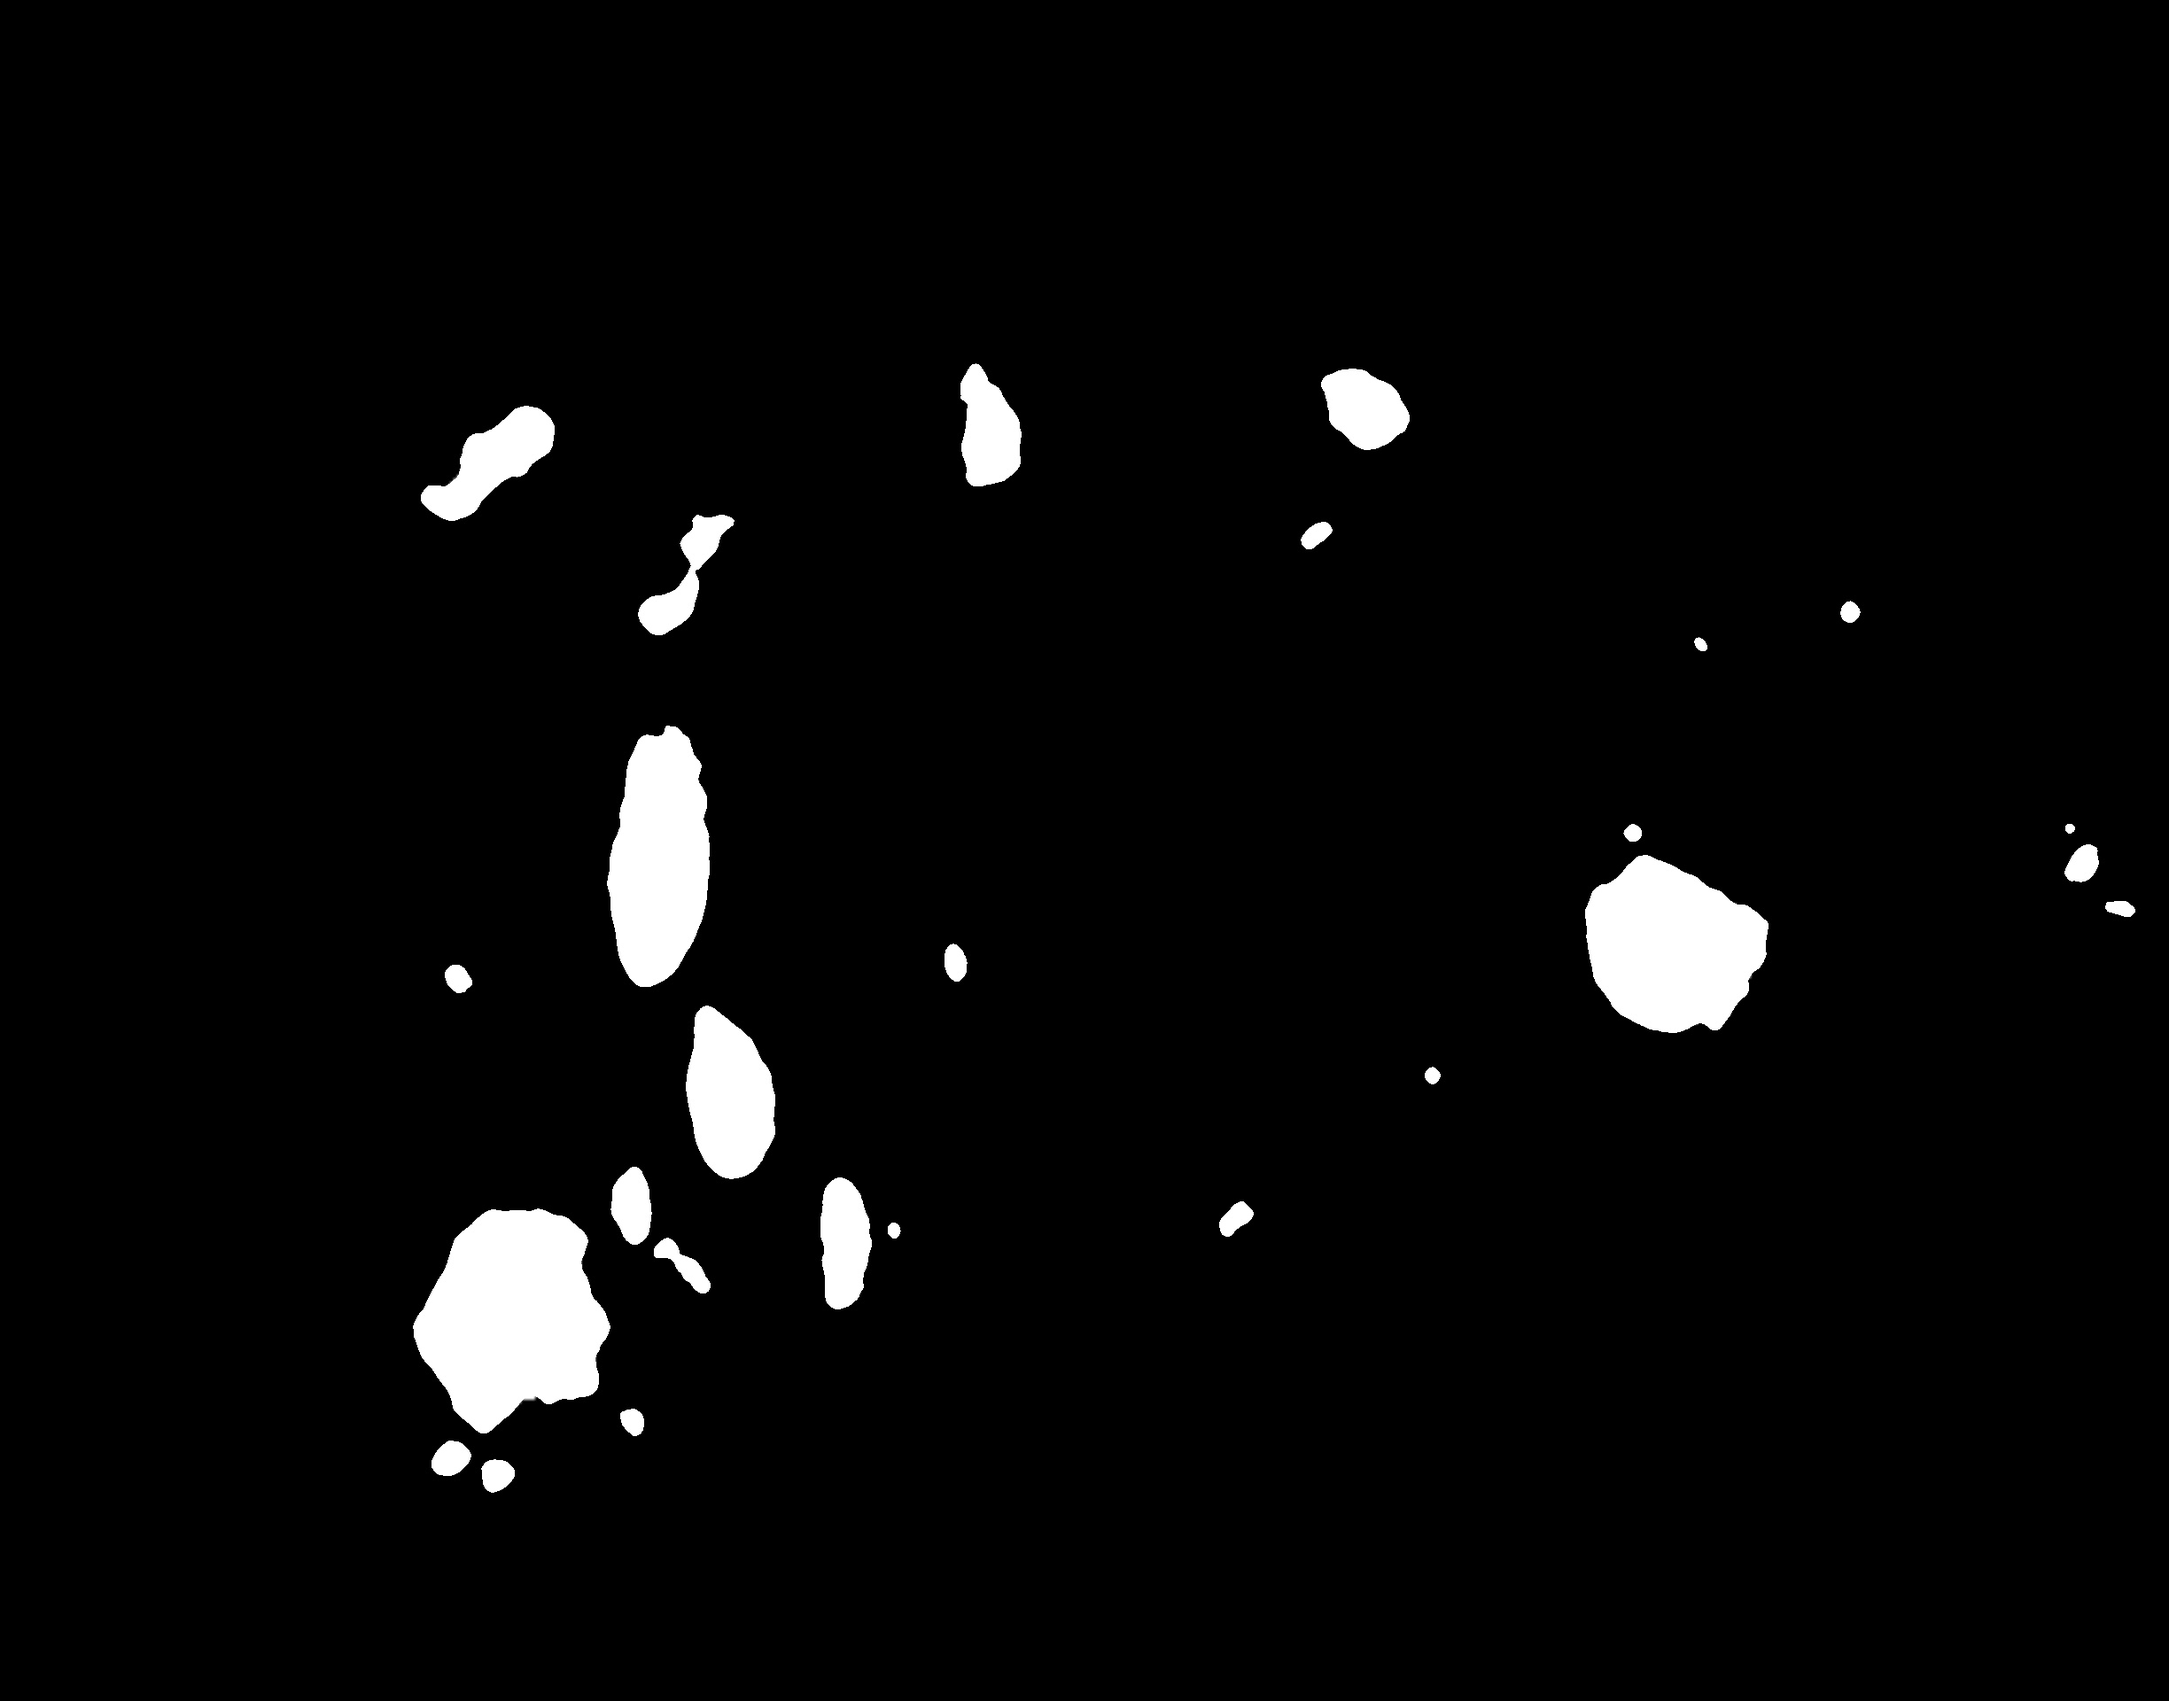
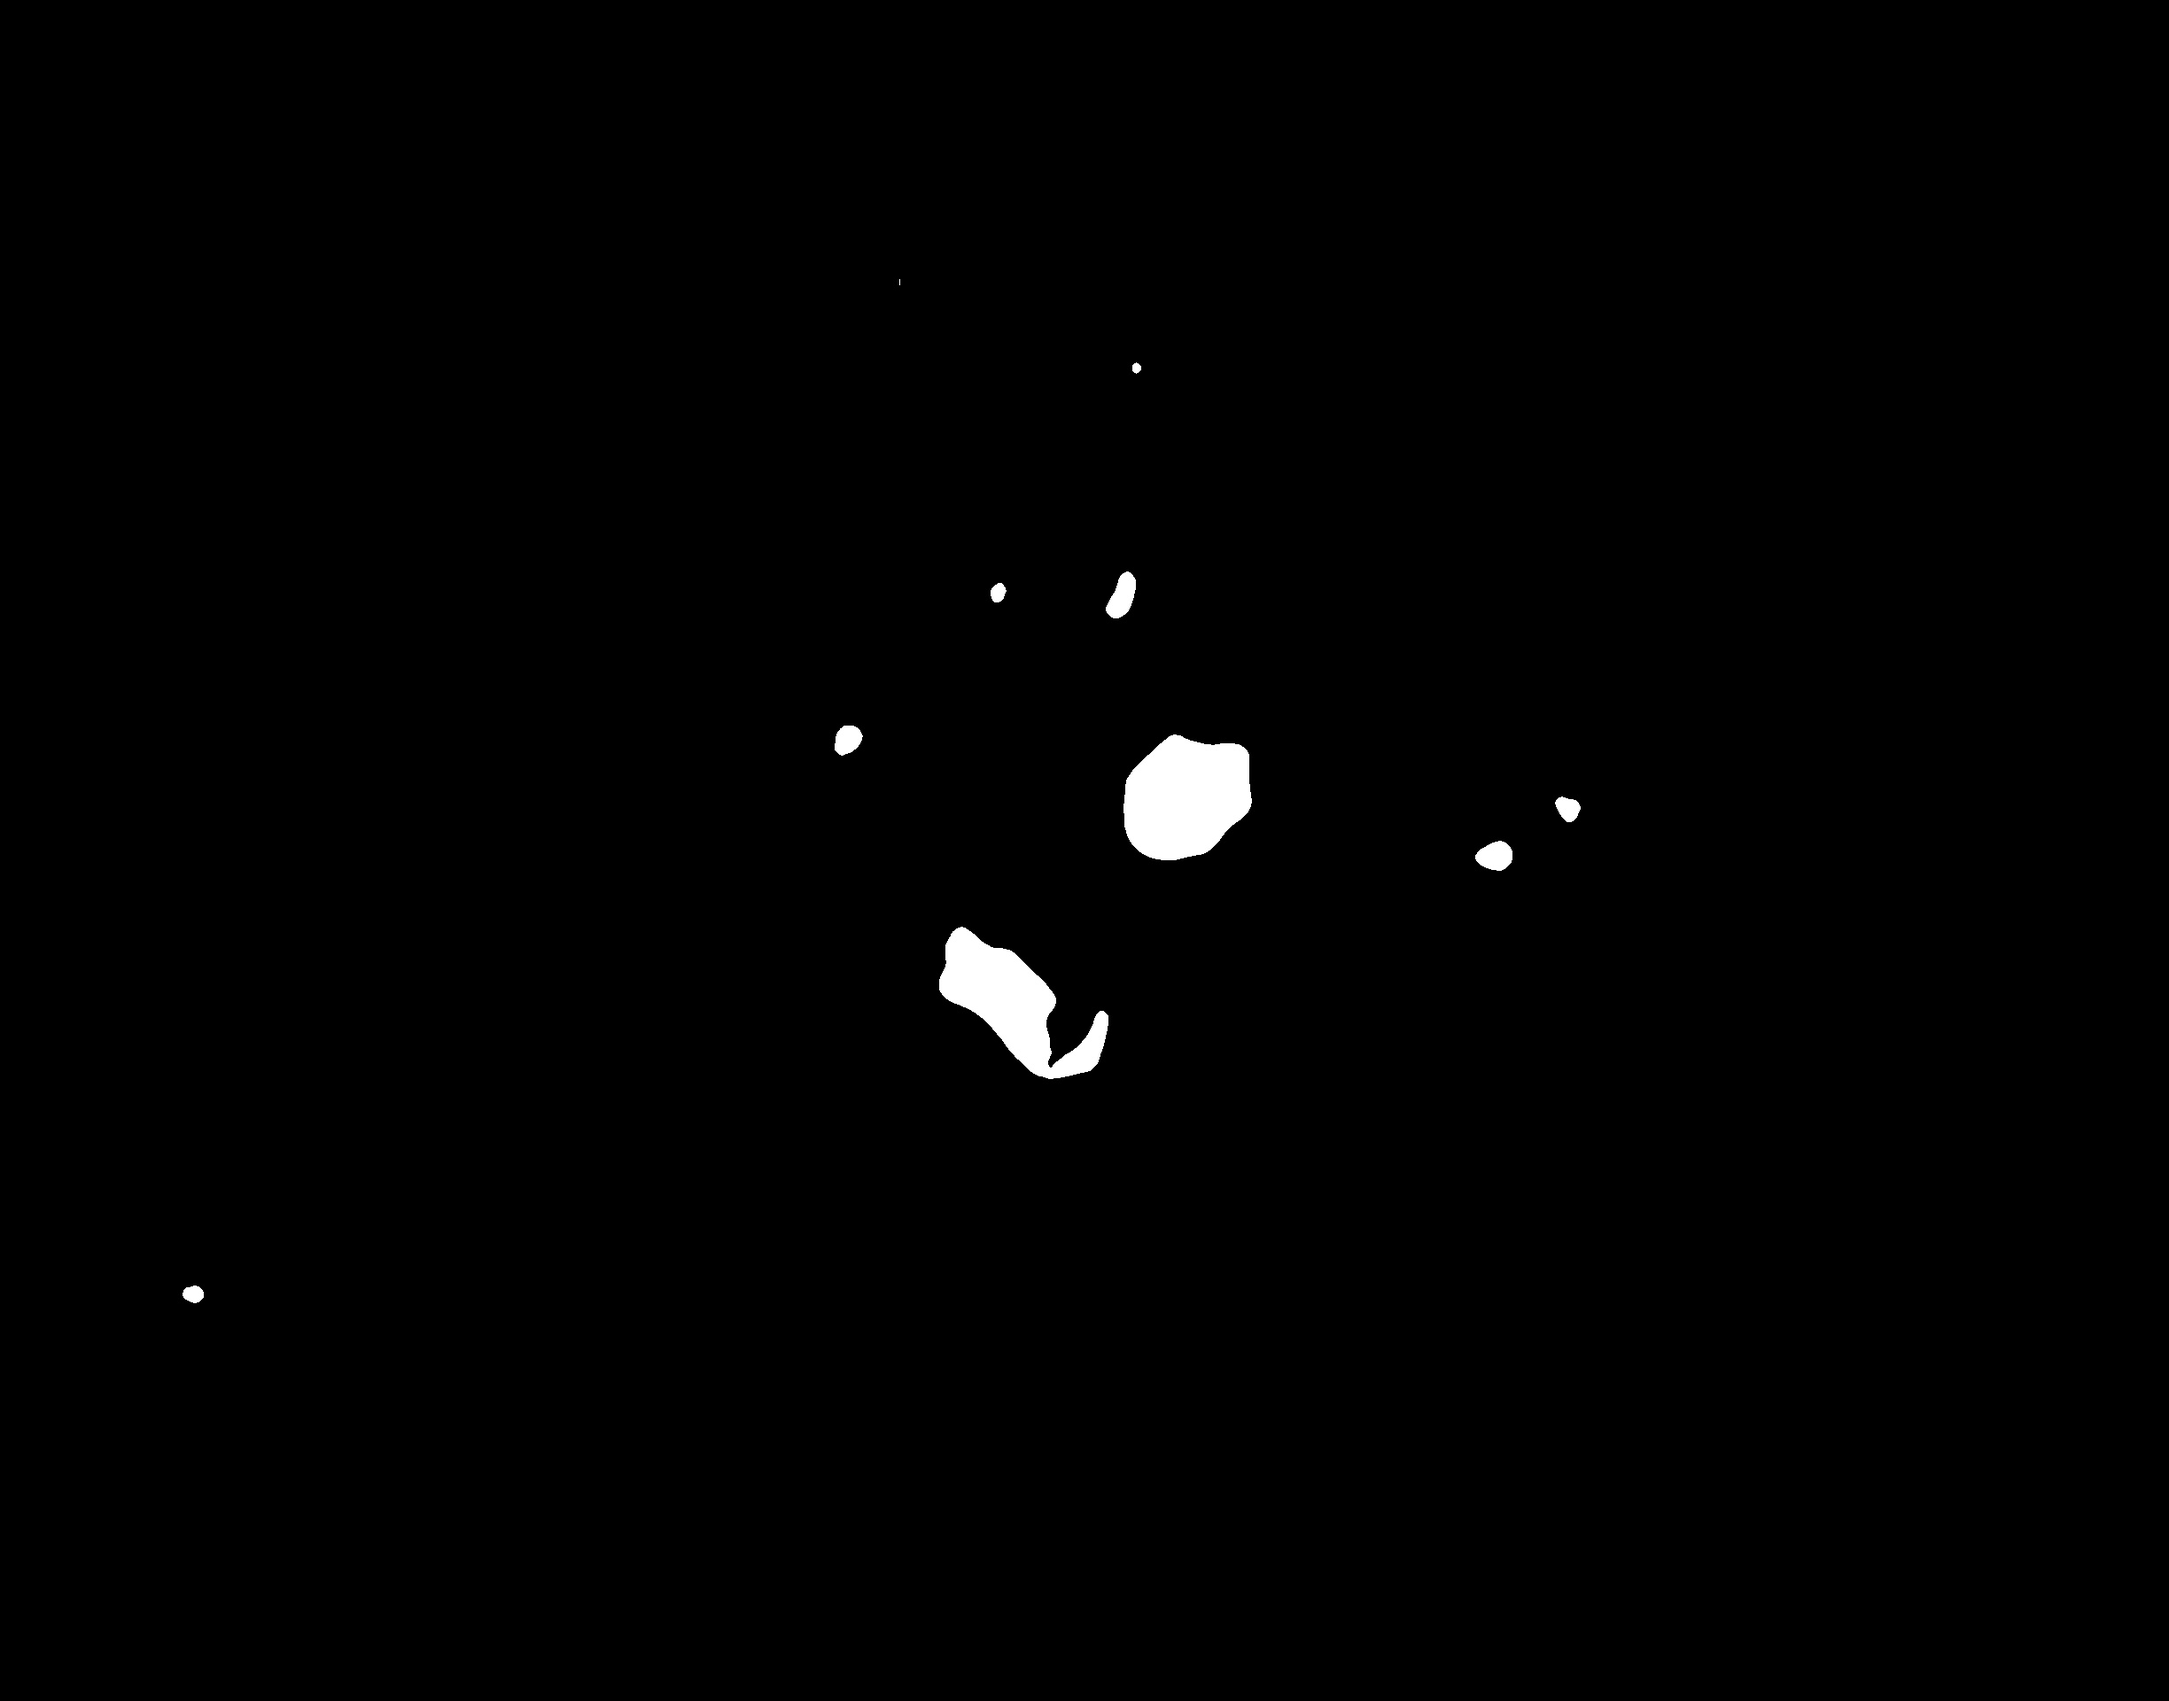
grain area

diff --git a/Fire-web/src/views/analysis/process.vue b/Fire-web/src/views/analysis/process.vue
@@ -50,18 +50,7 @@
         <div class="img-footer">
           <el-button icon = "el-icon-refresh-right" @click="rotate()" type="info">旋转</el-button>
           <el-button icon = "el-icon-refresh" @click="imgOut()" type="info">还原</el-button>
-          <el-button icon = "el-icon-edit" @click="grain_seg()" type="info">分割</el-button>
-			  </div>
-        <img width="100%" :src="require('../../../../Fire/Fire-py/grain.jpg')" alt="" class="imgclass" :style="test " @mousedown="imgMove">
-      </div>
-    </el-dialog>
-
-    <el-dialog :visible.sync="grainResVisible" style="top:-100px">
-      <div @mousewheel="bbimg(this)" class = "img-display">
-        <div class="img-footer">
-          <el-button icon = "el-icon-refresh-right" @click="rotate()" type="info">旋转</el-button>
-          <el-button icon = "el-icon-refresh" @click="imgOut()" type="info">还原</el-button>
-          <el-button icon="el-icon-download" @click="exportGrain()" type="info">导出特征</el-button>
+          <el-button icon = "el-icon-download" @click="exportGrain()" type="info">导出特征</el-button>
 			  </div>
         <img width="100%" :src="require('../../../../Fire/Fire-py/grain.jpg')" alt="" class="imgclass" :style="test " @mousedown="imgMove">
       </div>
@@ -150,8 +139,6 @@ export default {
         cavityVisible: false,
         grainVisible: false,
         grainAreaVisible: false,
-        grainResVisible: false,
-
         ifSeg:false,
 
 
@@ -187,17 +174,11 @@ export default {
       grain(){
         this.grainVisible = true;
       },
-      grain_seg(){
-        imgApi.grain().then(response => {
-          this.$message({
-            message: response.message,
-            type: 'success'
-          });
-        })
-        this.grainResVisible = true;
-      },
       exportGrain(){
-        window.location.href="./grain.xlsx"
+        this.$message("处理中")
+        imgApi.exportGrain().then(response => {
+          window.location.href="./grain.csv"
+        });
       },
       grain_area(){
         if(this.boxArray.length == 0){
@@ -221,21 +202,23 @@ export default {
           var imgHeight = this.boxArray[0].height / offset;
           
           var box = [imgTop, imgLeft, imgWidth, imgHeight]
-          console.log(box)
+
           imgApi.corpGrain(box).then(response => {
             this.$message({
-              message: response.message,
-              type: 'success',
+              message : "处理中",
+              // message: response.message,
+              // type: 'success',
               customClass:'mzindex'
             })
           })
           imgApi.grain().then(response => {
             this.$message({
               message: response.message,
-              type: 'success'
+              type: 'success',
+              customClass:'mzindex'
             });
+            this.grainAreaVisible = true;
           })
-         this.grainAreaVisible = true;
         }
       },
       reposition(){
@@ -390,7 +373,6 @@ export default {
               customClass:'mzindex'
             });
             this.cavityVisible = true;
-            console.log(response)
           })          
         }
         this.ifSeg = true

diff --git a/Fire-web/src/api/imgManage.js b/Fire-web/src/api/imgManage.js
@@ -38,5 +38,11 @@ export default{
       method: 'post',
       data: box
     });
+  },
+  exportGrain(){
+    return request({
+      url: '/grain/export',
+      method: 'get',
+    });
   }
 }

diff --git a/Fire/Fire-py/grain_export.py b/Fire/Fire-py/grain_export.py
@@ -1,21 +1,13 @@
-from cellpose import models, io
 import numpy as np
-import cv2, math, os
+import cv2, math
 import pandas as pd
 
-from cellpose.io import logger_setup
-logger_setup()
+masks = cv2.imread("./Fire-py/grain_mask.png", -1)
 
-file = "./Fire-py/corp_grain.jpg"
-img = io.imread(file)
-model = models.Cellpose(gpu=True, model_type='cyto')
-masks, flows, styles, diams = model.eval(img, diameter=None, channels=[0,0])
-# io.save_masks(img, masks, flows, file, save_txt=False)
-io.imsave("./Fire-py/grain_mask.png", masks)
+res = {"Id": [],"Area": [], "Circumference": [], "Roundness": []}
 
 id = 1
 
-img = img[..., [2,1,0]].copy()
 n = np.max(masks)
 
 for i in range(1, n + 1):
@@ -34,13 +26,17 @@ for i in range(1, n + 1):
             circumference = cv2.arcLength(contour, True)
             roundness = (4 * math.pi * area) / (circumference * circumference)
 
+            res["Id"].append(id)
+            res["Area"].append(area)
+            res["Circumference"].append(circumference)
+            res["Roundness"].append(roundness)
+
+            id = id + 1
+
             M = cv2.moments(contour)
             cx = int(M['m10']/M['m00']) # 求x坐标
             cy = int(M['m01']/M['m00']) # 求y坐标
         
-            cv2.drawContours(img, contours, idx, (0,255,0), 1)
-            cv2.putText(img, str(id), (cx, cy), cv2.FONT_HERSHEY_SIMPLEX, 0.3, (0, 0, 255), 1)
-            id = id + 1
-    
 
-cv2.imwrite("./Fire-py/grain.jpg", img)
+data = pd.DataFrame(res)
+data.to_csv("../Fire-web/public/grain.csv", index=None)

diff --git a/Fire/src/main/java/com/fire/controller/grainController.java b/Fire/src/main/java/com/fire/controller/grainController.java
@@ -71,4 +71,29 @@ public class grainController {
         }
         return Result.success("晶粒区域裁剪成功");
     }
+
+    @ApiOperation(value = "晶粒特征提取")
+    @GetMapping("/export")
+    public Result<?> exportGrain() {
+        try {
+            String exe = "D:\\anaconda\\python.exe";
+            String py = "./Fire-py/grain_export.py";
+
+            Process process = Runtime.getRuntime().exec(exe + " " + py);
+            //获取结果的同时设置输入流编码格式"gb2312"
+            InputStreamReader isr = new InputStreamReader(process.getInputStream(),"gb2312");
+            LineNumberReader input = new LineNumberReader(isr);
+
+            String line = null;
+            while ((line = input.readLine()) != null) {
+                log.info(line);
+            }
+            input.close();
+            isr.close();
+            process.waitFor();
+        } catch (InterruptedException | IOException e) {
+            log.info("调用python脚本并读取结果时出错：" + e.getMessage());
+        }
+        return Result.success("晶粒特征提取成功");
+    }
 }
